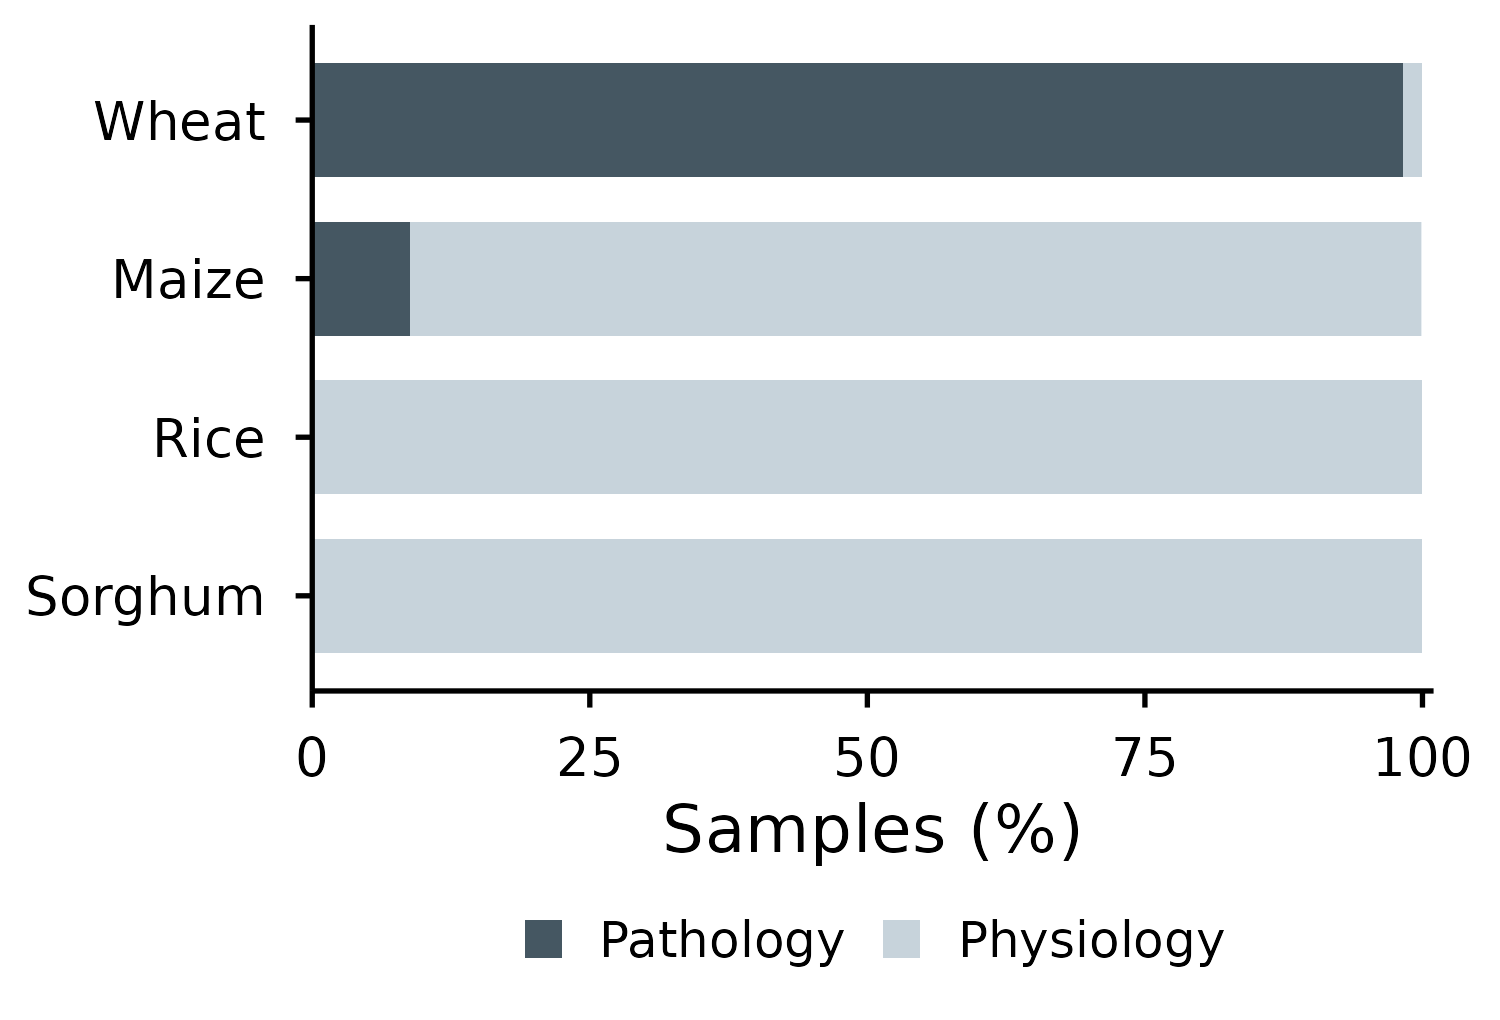
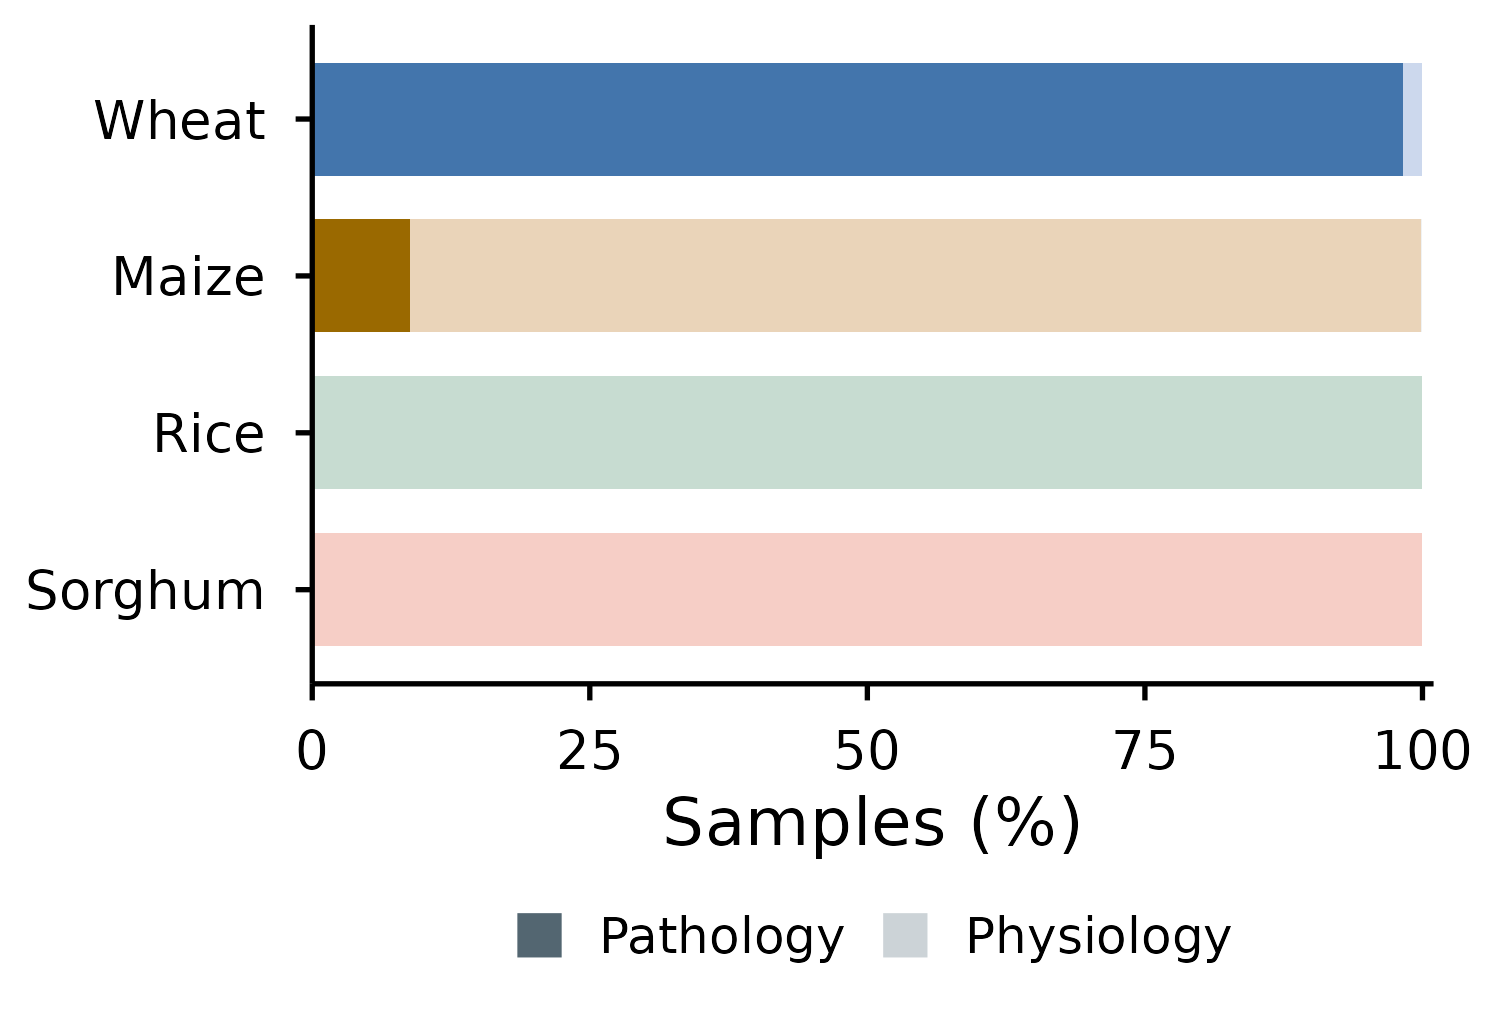
01a: panel e shades each crop's own hue rather than a neutral pair
Leon's call, and the right one: the panel now reads as four crops each
split two ways, instead of a fifth colour scheme arriving beside four
existing ones.

Derived, not picked. Each pair holds the crop's CIELUV hue and moves
luminance to 48 and 86, so every bar has the SAME internal contrast of
3.3:1 whatever the hue. Fixing luminance is the whole point: wheat's blue
is dark and maize's gold is light, so using each crop's base colour as
the dark end would have given 3.8:1 on the wheat bar and 1.6:1 on the
maize one, legible on some bars and not others. L=48 is as low as maize
goes while still reading gold, and that set the luminance for all four.

  Wheat    #4375AC / #CCD8ED      Rice     #387F60 / #C7DCD1
  Maize    #9A6900 / #EAD4B9      Sorghum  #B25936 / #F6CEC6

The legend cannot show eight swatches for a two-state variable, so it
shows the two weights in the palette's own neutral and lets the y axis
say which hue carries them. It hangs off an invisible point layer, the
only two-level aesthetic in the panel.

diff --git a/01a_Literature/report/figures/caption.py b/01a_Literature/report/figures/caption.py
@@ -166,7 +166,10 @@ through a reviewed spelling correction, and {pr['region']} at province level.
 REFERENCE TO DISEASE - chosen because diseased, deliberately infected, sprayed
 to suppress disease, or chosen because NOT diseased - against those sampled on
 some other criterion entirely: genotype, treatment, growth stage, clock time.
-Pathology share by crop: {design_line}.
+Pathology share by crop: {design_line}. Each crop keeps its own hue from
+(a) to (d) and carries the split as two weights of it, dark for pathology;
+the legend shows those two weights in the palette's neutral, because a
+two-state variable cannot sensibly be given eight swatches.
 
 This is a result, not a caveat. Crop and design are not confounded in the
 estimable sense; they are SEPARATED, and no model recovers a comparison that
